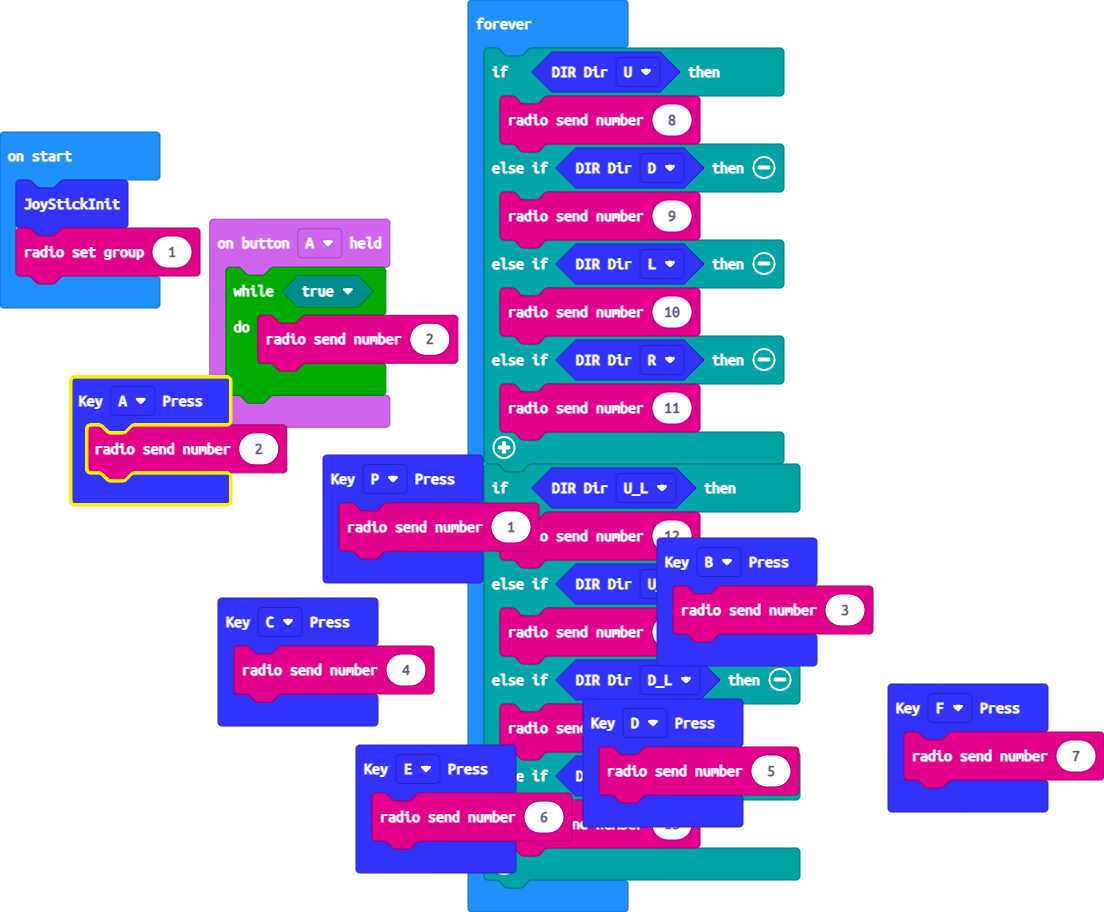
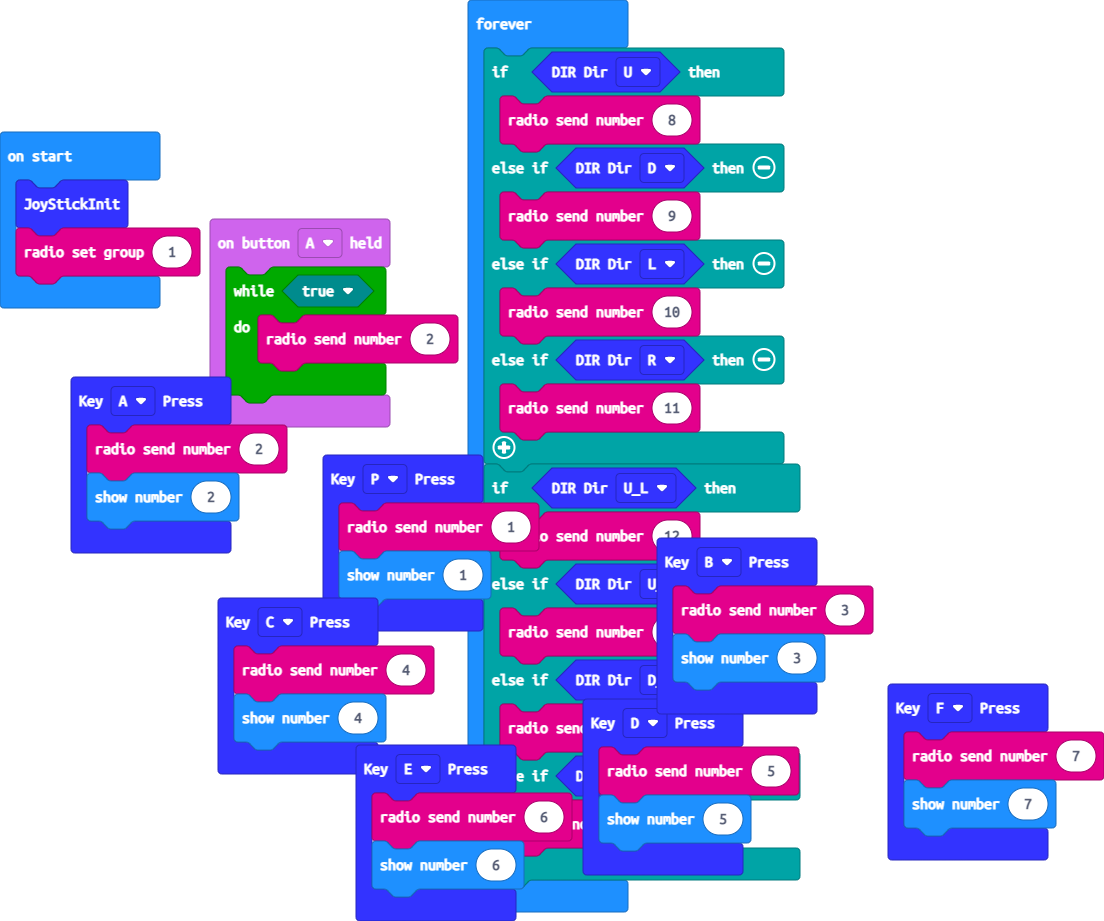
Update main.blocks, main.ts

Changed region(s): [[0.0, 0.0307, 0.8007, 1.0], [0.8007, 0.7368, 1.0, 0.9518], [0.7083, 0.4912, 0.7391, 0.5219]]

diff --git a/main.ts b/main.ts
@@ -1,23 +1,30 @@
 WSJoyStick.onKey(KEY.F, function () {
     radio.sendNumber(7)
+    basic.showNumber(7)
 })
 WSJoyStick.onKey(KEY.A, function () {
     radio.sendNumber(2)
+    basic.showNumber(2)
 })
 WSJoyStick.onKey(KEY.P, function () {
     radio.sendNumber(1)
+    basic.showNumber(1)
 })
 WSJoyStick.onKey(KEY.E, function () {
     radio.sendNumber(6)
+    basic.showNumber(6)
 })
 WSJoyStick.onKey(KEY.D, function () {
     radio.sendNumber(5)
+    basic.showNumber(5)
 })
 WSJoyStick.onKey(KEY.B, function () {
     radio.sendNumber(3)
+    basic.showNumber(3)
 })
 WSJoyStick.onKey(KEY.C, function () {
     radio.sendNumber(4)
+    basic.showNumber(4)
 })
 buttonClicks.onButtonHeld(buttonClicks.AorB.A, function () {
     while (true) {
